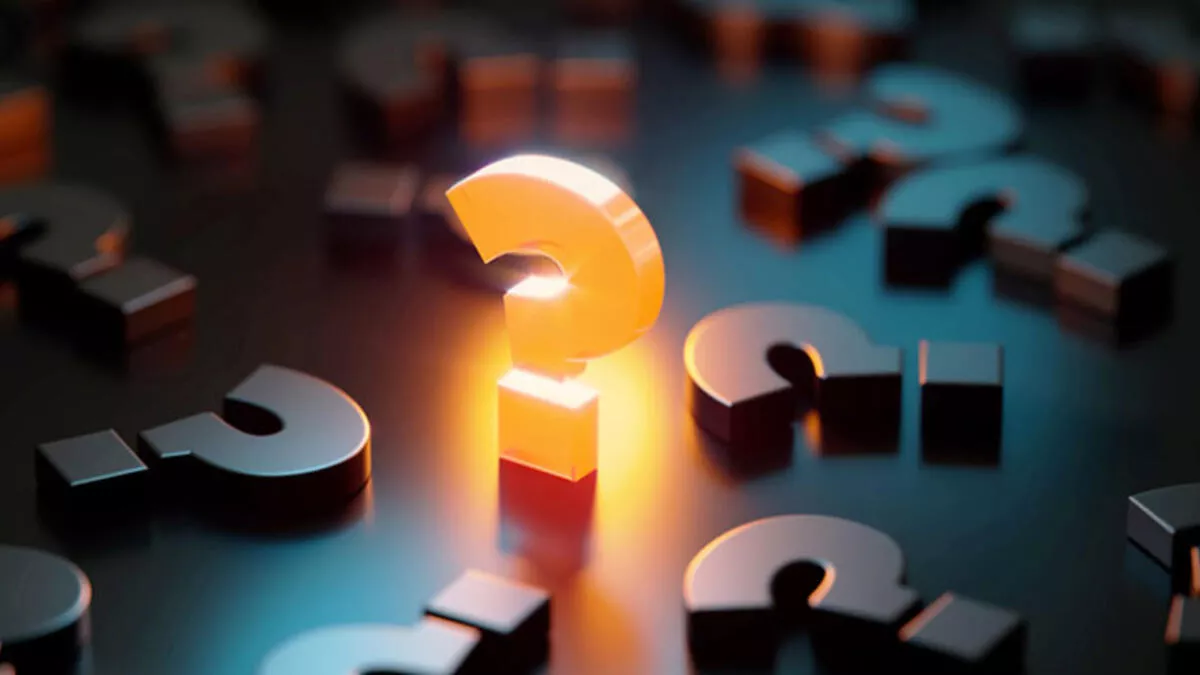
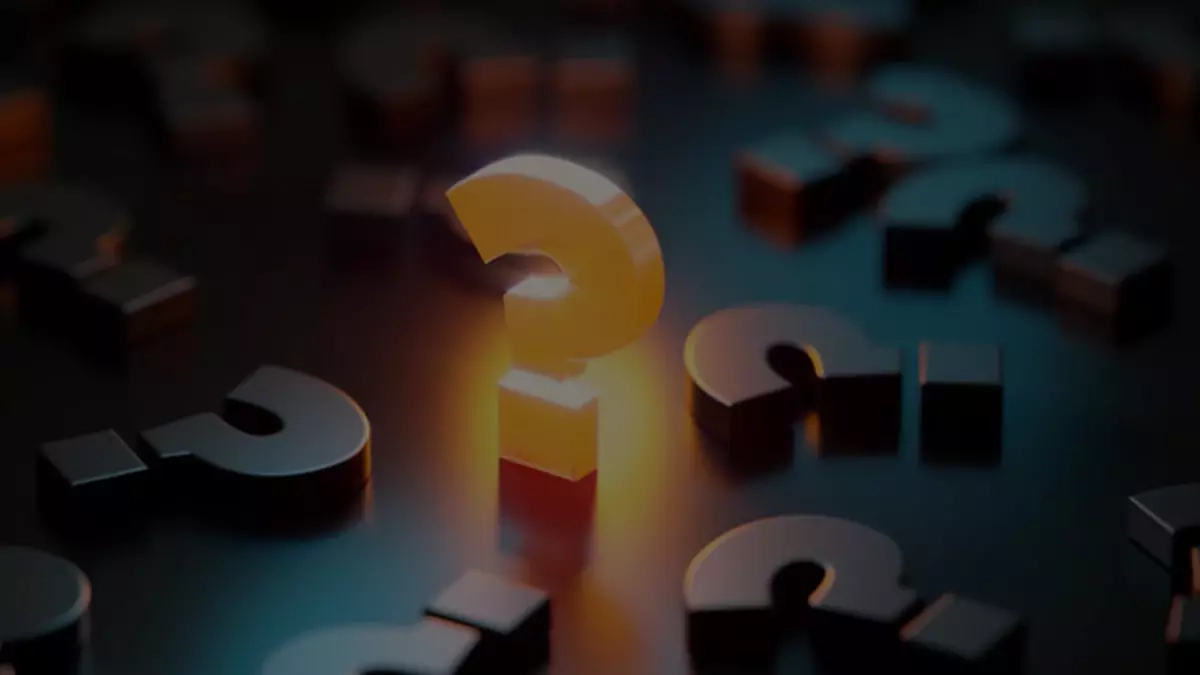
GÖRSELLERE GÖLGE EKLENDİ

diff --git a/hakkimizda.html b/hakkimizda.html
@@ -76,10 +76,11 @@
     <!-- Header Section End -->
 
     <!-- Banner Section Start -->
-    <section id="banner" style="background-image: url(img/ash-ketchum-1700x600.webp);">
+    <section id="banner" style="background-image: url(img/ash-ketchum-1200x600.webp);">
         <div class="container">
             <div class="row">
-                <div class="col-12">    
+                <div class="col-12">
+                    <h1 style="color: white; text-align: center;">HAKKIMIZDA</h1>    
                 </div>
             </div>
         </div>

diff --git a/blog.html b/blog.html
@@ -79,6 +79,9 @@
     <section id="banner" style="background-image: url(img/banner-soru-isareti-1200x675.webp);">
         <div class="container">
             <div class="row">
+                <div class="col-12">
+                    <h1 style="color: white; text-align: center;">BLOG</h1>    
+                </div>
             </div>
         </div>
     </section>
